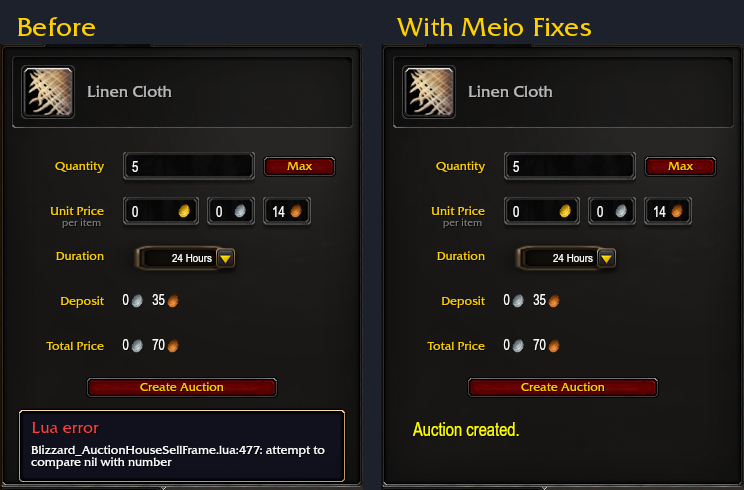
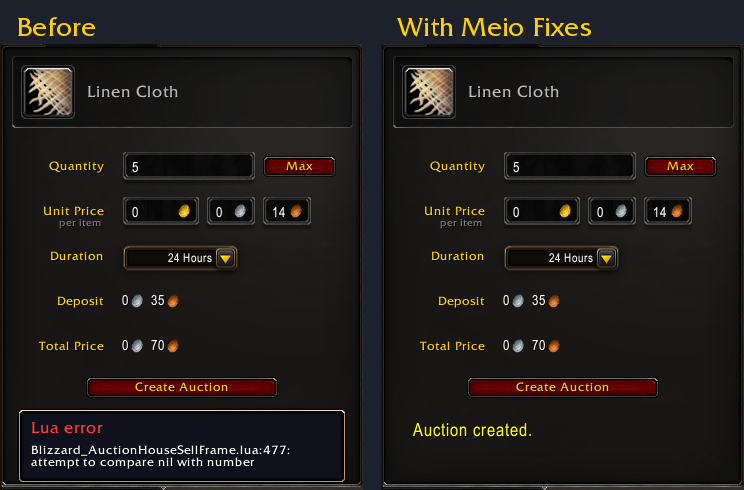
Listing pictures re-rendered; new summary and opening line

diff --git a/README.md b/README.md
@@ -1,6 +1,7 @@
 # Meio Fixes
 
-Stops Lua errors in Blizzard's own auction house and profession windows.
+Getting Lua errors at the auction house with no addons to blame? Meio Fixes stops the ones
+in Blizzard's own auction and profession windows.
 
 For WoW Forever.
 
